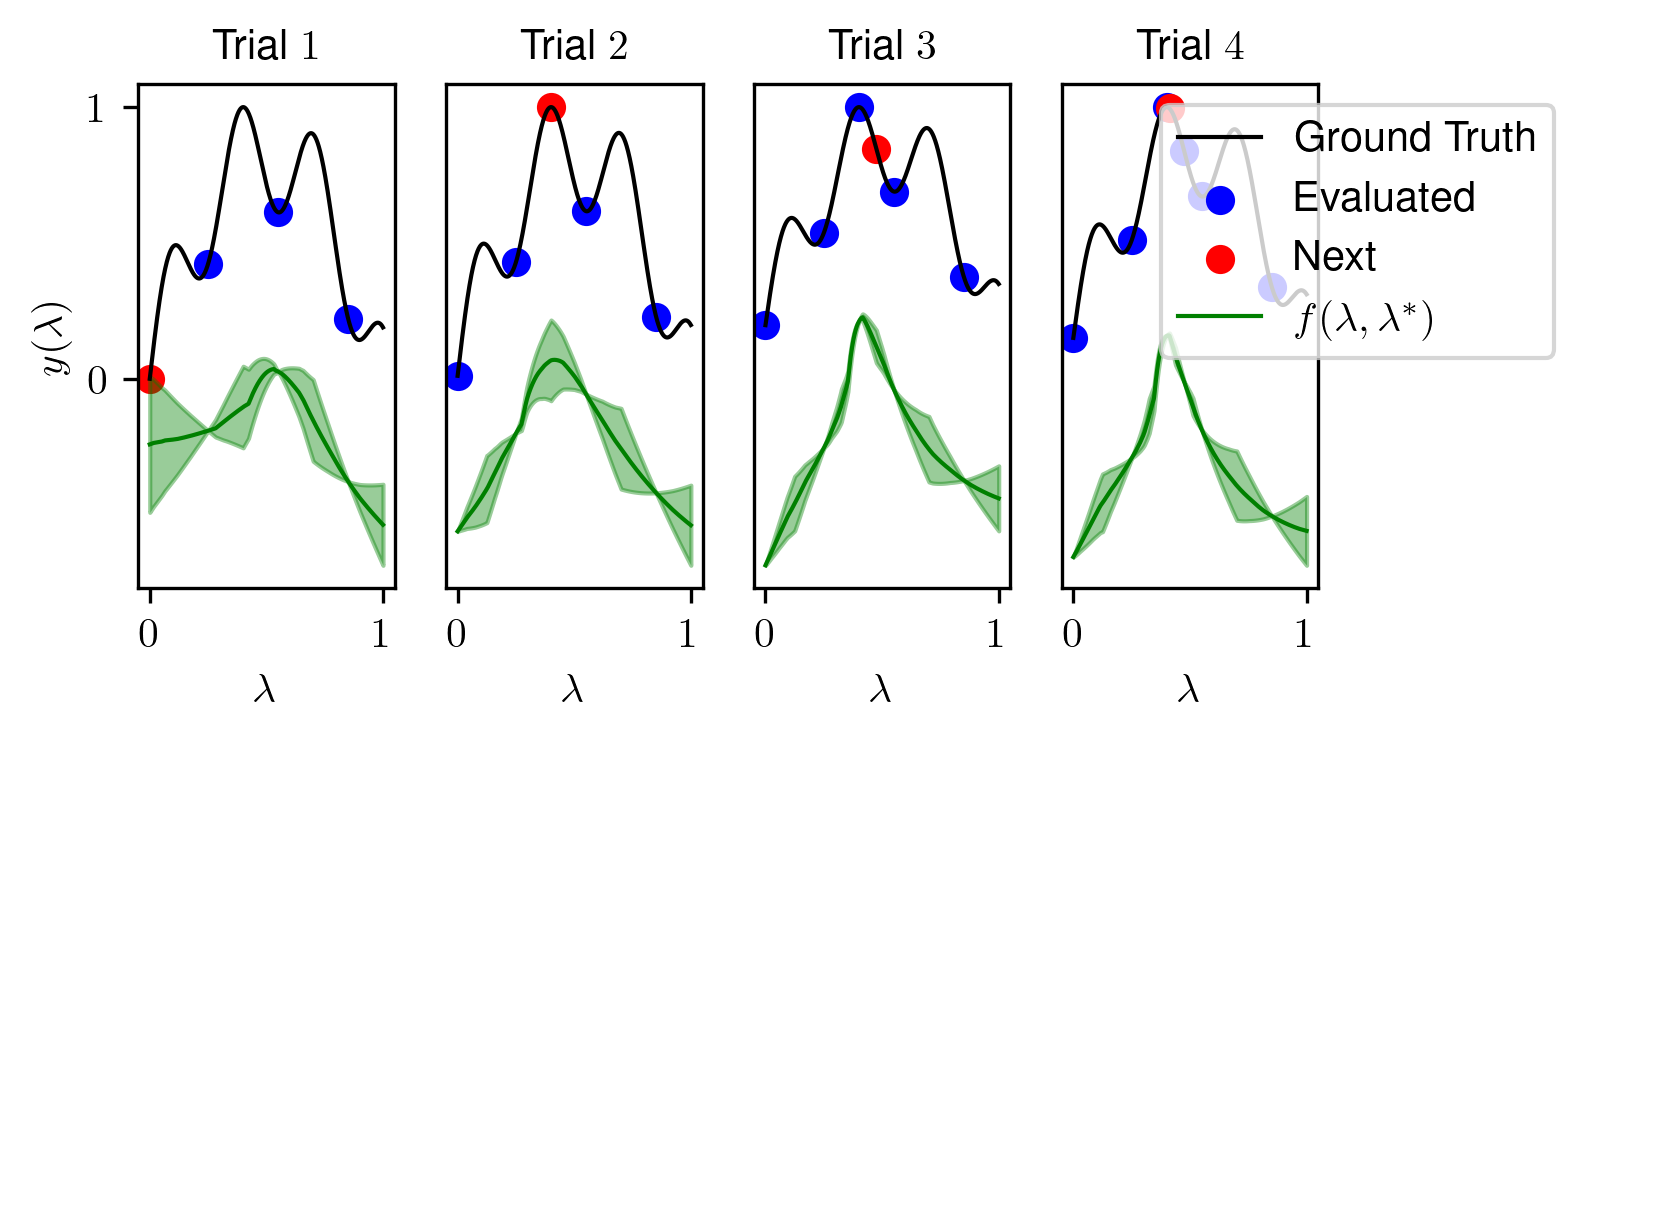
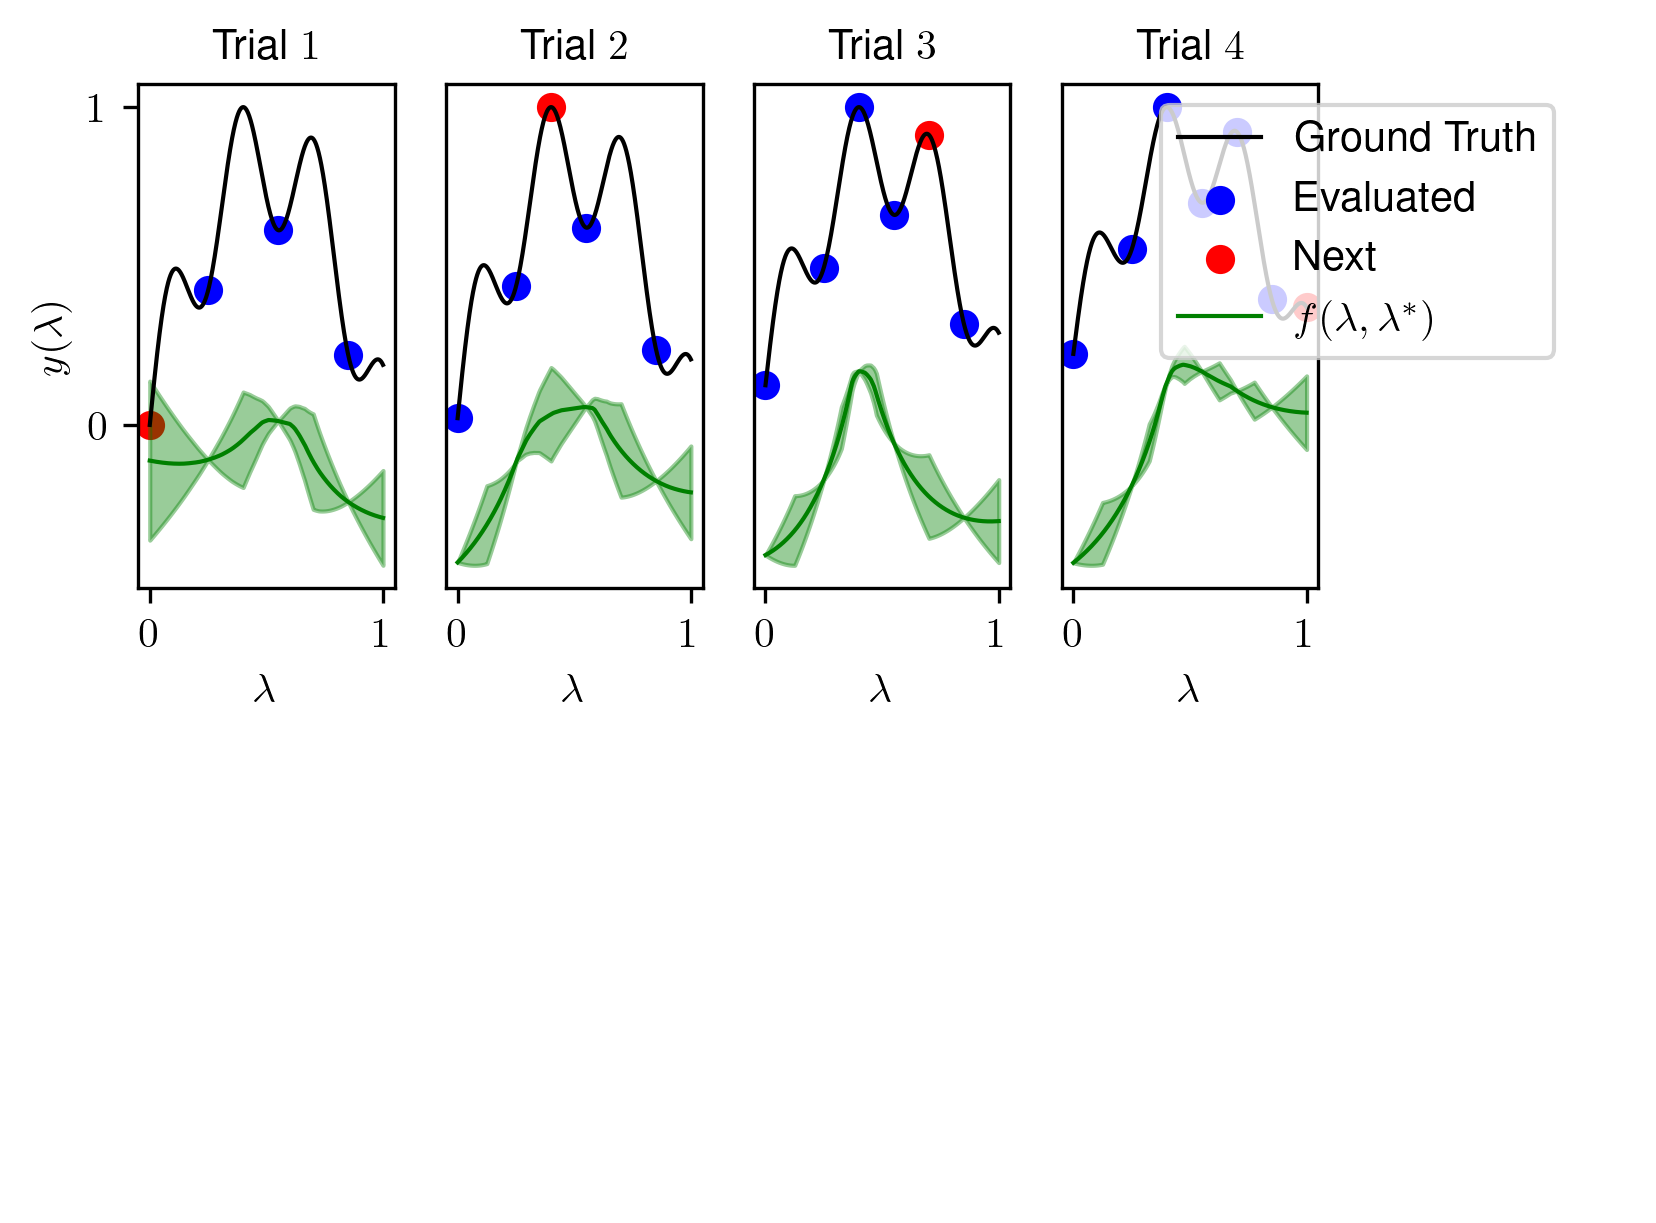
working version

diff --git a/methods/nn_bo_synth.py b/methods/nn_bo_synth.py
@@ -18,7 +18,7 @@ class NeuralNetworkBOSynth():
         if config is None:
             self.config = {'is_rank_version': True, 'eta': 0.01, 'optim_iters': 300, 'train_batch_size': 30,
                            'acquisition_batch_size': 1000, 'log_iters': 300, 'hidden_layers_units': [16, 16, 16, 16],
-                           'use_batch_norm': False, 'use_dropout': False, 'dropout_rate': 0.0, 'beta': 5.0}
+                           'use_batch_norm': False, 'use_dropout': False, 'dropout_rate': 0.0, 'beta': 7.0}
         else:
             self.config = config
 

diff --git a/poc/main_poc.py b/poc/main_poc.py
@@ -18,7 +18,7 @@ initial_design_idxs = [250, 550, 850]
 # create an smbo method
 config = {'is_rank_version': True, 'eta': 0.01, 'optim_iters': 300, 'train_batch_size': 30,
           'acquisition_batch_size': 1000, 'log_iters': 300, 'hidden_layers_units': [16, 16, 16, 16],
-          'use_batch_norm': False, 'use_dropout': False, 'dropout_rate': 0.0, 'beta': 5.0}
+          'use_batch_norm': False, 'use_dropout': True, 'dropout_rate': 0.05, 'beta': 7.0}
 
 nn_bo = NeuralNetworkBOSynth(config=config)
 
